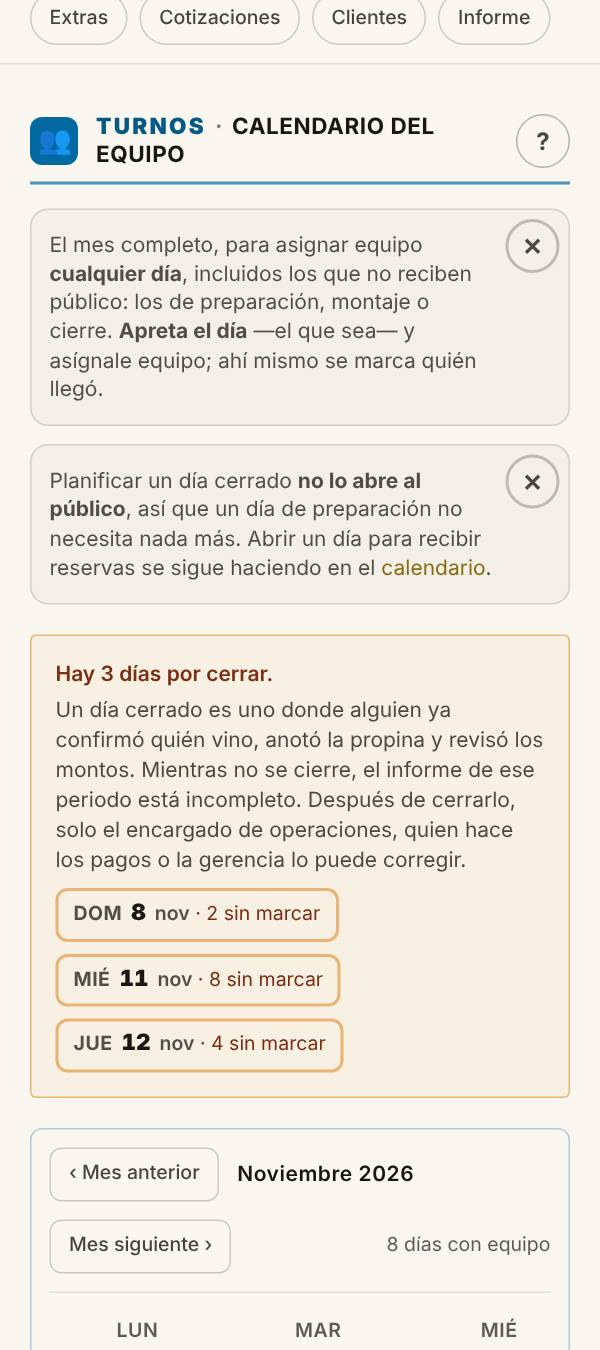
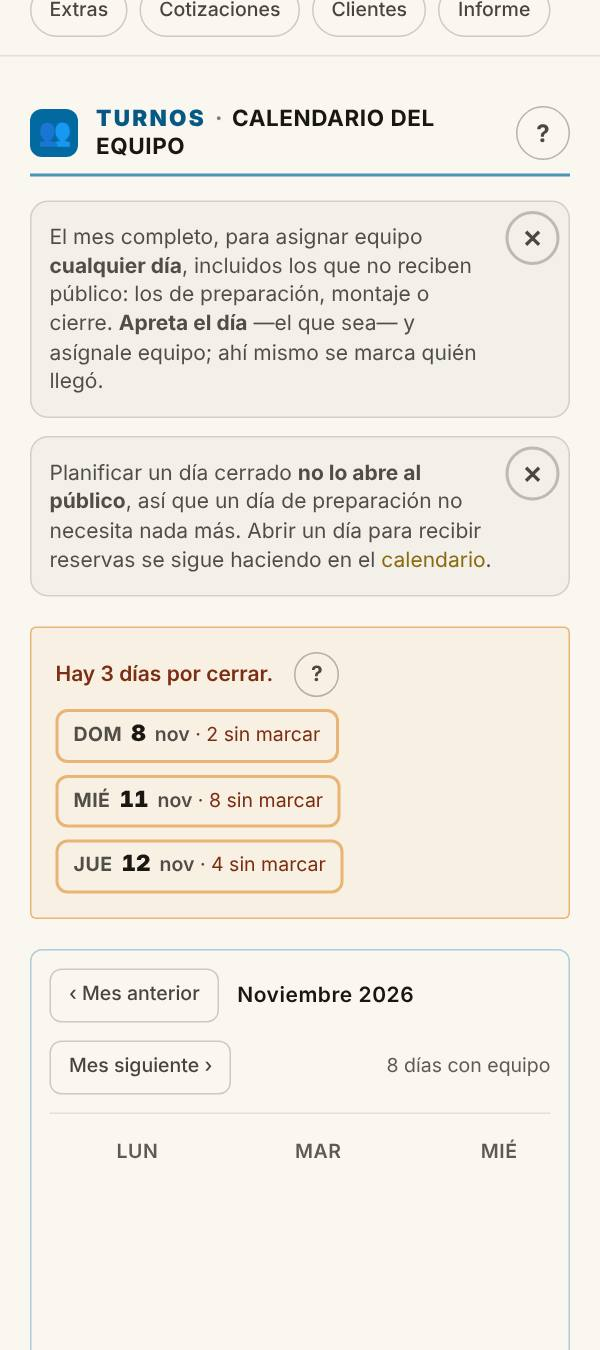
Turnos: el porqué de los días por cerrar pasa a su ?
A la vista quedan cuántos son y cuáles; lo que es un día cerrado y quién
lo corrige, en la ayuda corta. Lo pidió el cliente: con la gente capacitada,
el texto fijo molesta.

Claude-Session: https://claude.ai/code/session_01SbCpLXRLiAYNdagAaPDDb9

diff --git a/panel/src/components/CalendarioEquipo.tsx b/panel/src/components/CalendarioEquipo.tsx
@@ -25,6 +25,7 @@
  * ese día. Se dice en pantalla porque es la duda razonable al usarlo.
  */
 import AvisoFijo from './AvisoFijo';
+import AyudaCorta from './AyudaCorta';
 import { useEffect, useMemo, useState } from 'react';
 import Ayuda from './Ayuda';
 import FechaDia, { MARCO_HOY } from './FechaDia';
@@ -152,17 +153,14 @@ export default function CalendarioEquipo({ dia }: { dia?: string } = {}) {
           decir quién vino a un sábado que no ha ocurrido. */}
       {porCerrar.length > 0 && (
         <div className="mb-5 rounded border border-ambar/50 bg-ambar/5 p-4">
-          <p className="text-sm font-semibold text-ambar-texto">
+          {/* **El porqué, en su `?`** (2026-11-21, lo pidió el cliente: *"vamos
+              a capacitar a la gente y después molesta mucho texto
+              constante"*). A la vista queda cuántos son y cuáles. */}
+          <p className="flex items-center gap-2 text-sm font-semibold text-ambar-texto">
             {porCerrar.length === 1
               ? 'Hay un día por cerrar.'
               : `Hay ${porCerrar.length} días por cerrar.`}
-          </p>
-          <p className="mt-1 text-sm text-hueso/70">
-            Un día cerrado es uno donde alguien ya confirmó quién vino, anotó
-            la propina y revisó los montos. Mientras no se cierre, el informe
-            de ese periodo está incompleto. Después de cerrarlo, solo el
-            encargado de operaciones, quien hace los pagos o la gerencia lo
-            puede corregir.
+            <AyudaCorta tema="diasPorCerrar" />
           </p>
           <div className="mt-2 flex flex-wrap gap-2">
             {porCerrar.map((f) => {

diff --git a/panel/src/lib/ayudas.ts b/panel/src/lib/ayudas.ts
@@ -522,6 +522,15 @@ export interface AyudaCorta {
 }
 
 export const AYUDAS_CORTAS: Record<string, AyudaCorta> = {
+  // ---------- Turnos ----------
+  diasPorCerrar: {
+    titulo: 'Días por cerrar',
+    texto: [
+      'Un día cerrado es uno donde alguien ya confirmó quién vino, anotó la propina y revisó los montos.',
+      'Mientras no se cierre, el informe de ese periodo está incompleto.',
+      'Después de cerrarlo, solo el encargado de operaciones, quien hace los pagos o la gerencia lo puede corregir.'
+    ]
+  },
   // ---------- La ventana de cotizar ----------
   alternativas: {
     titulo: 'Alternativas',
